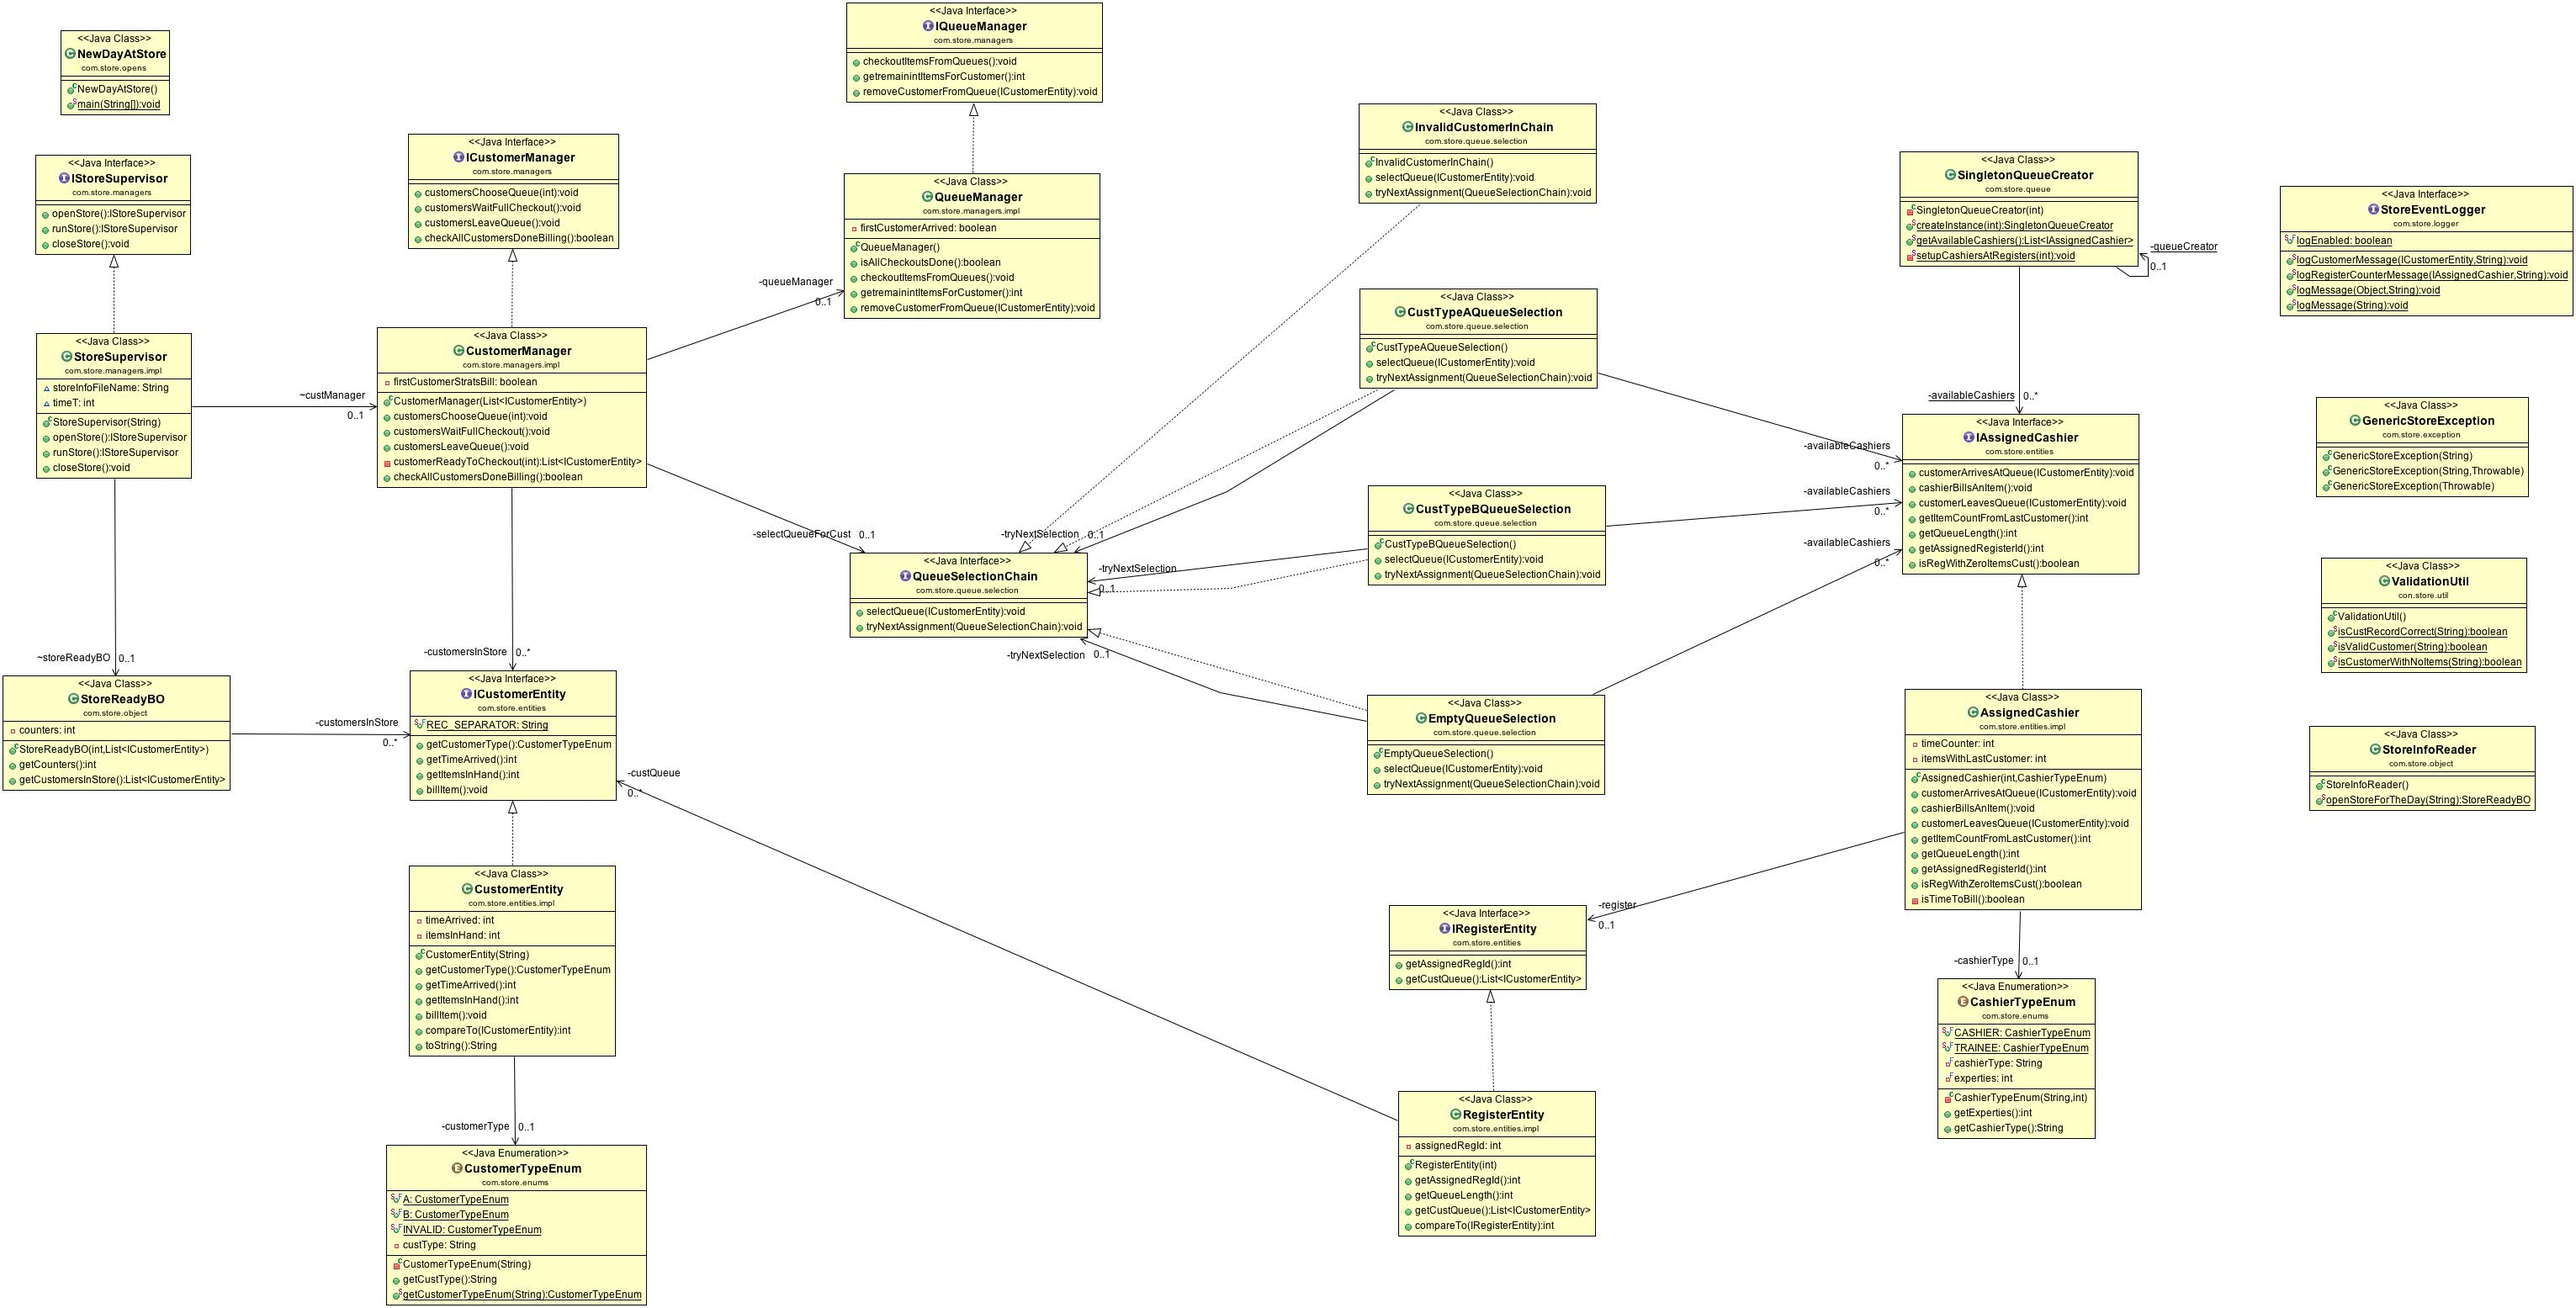
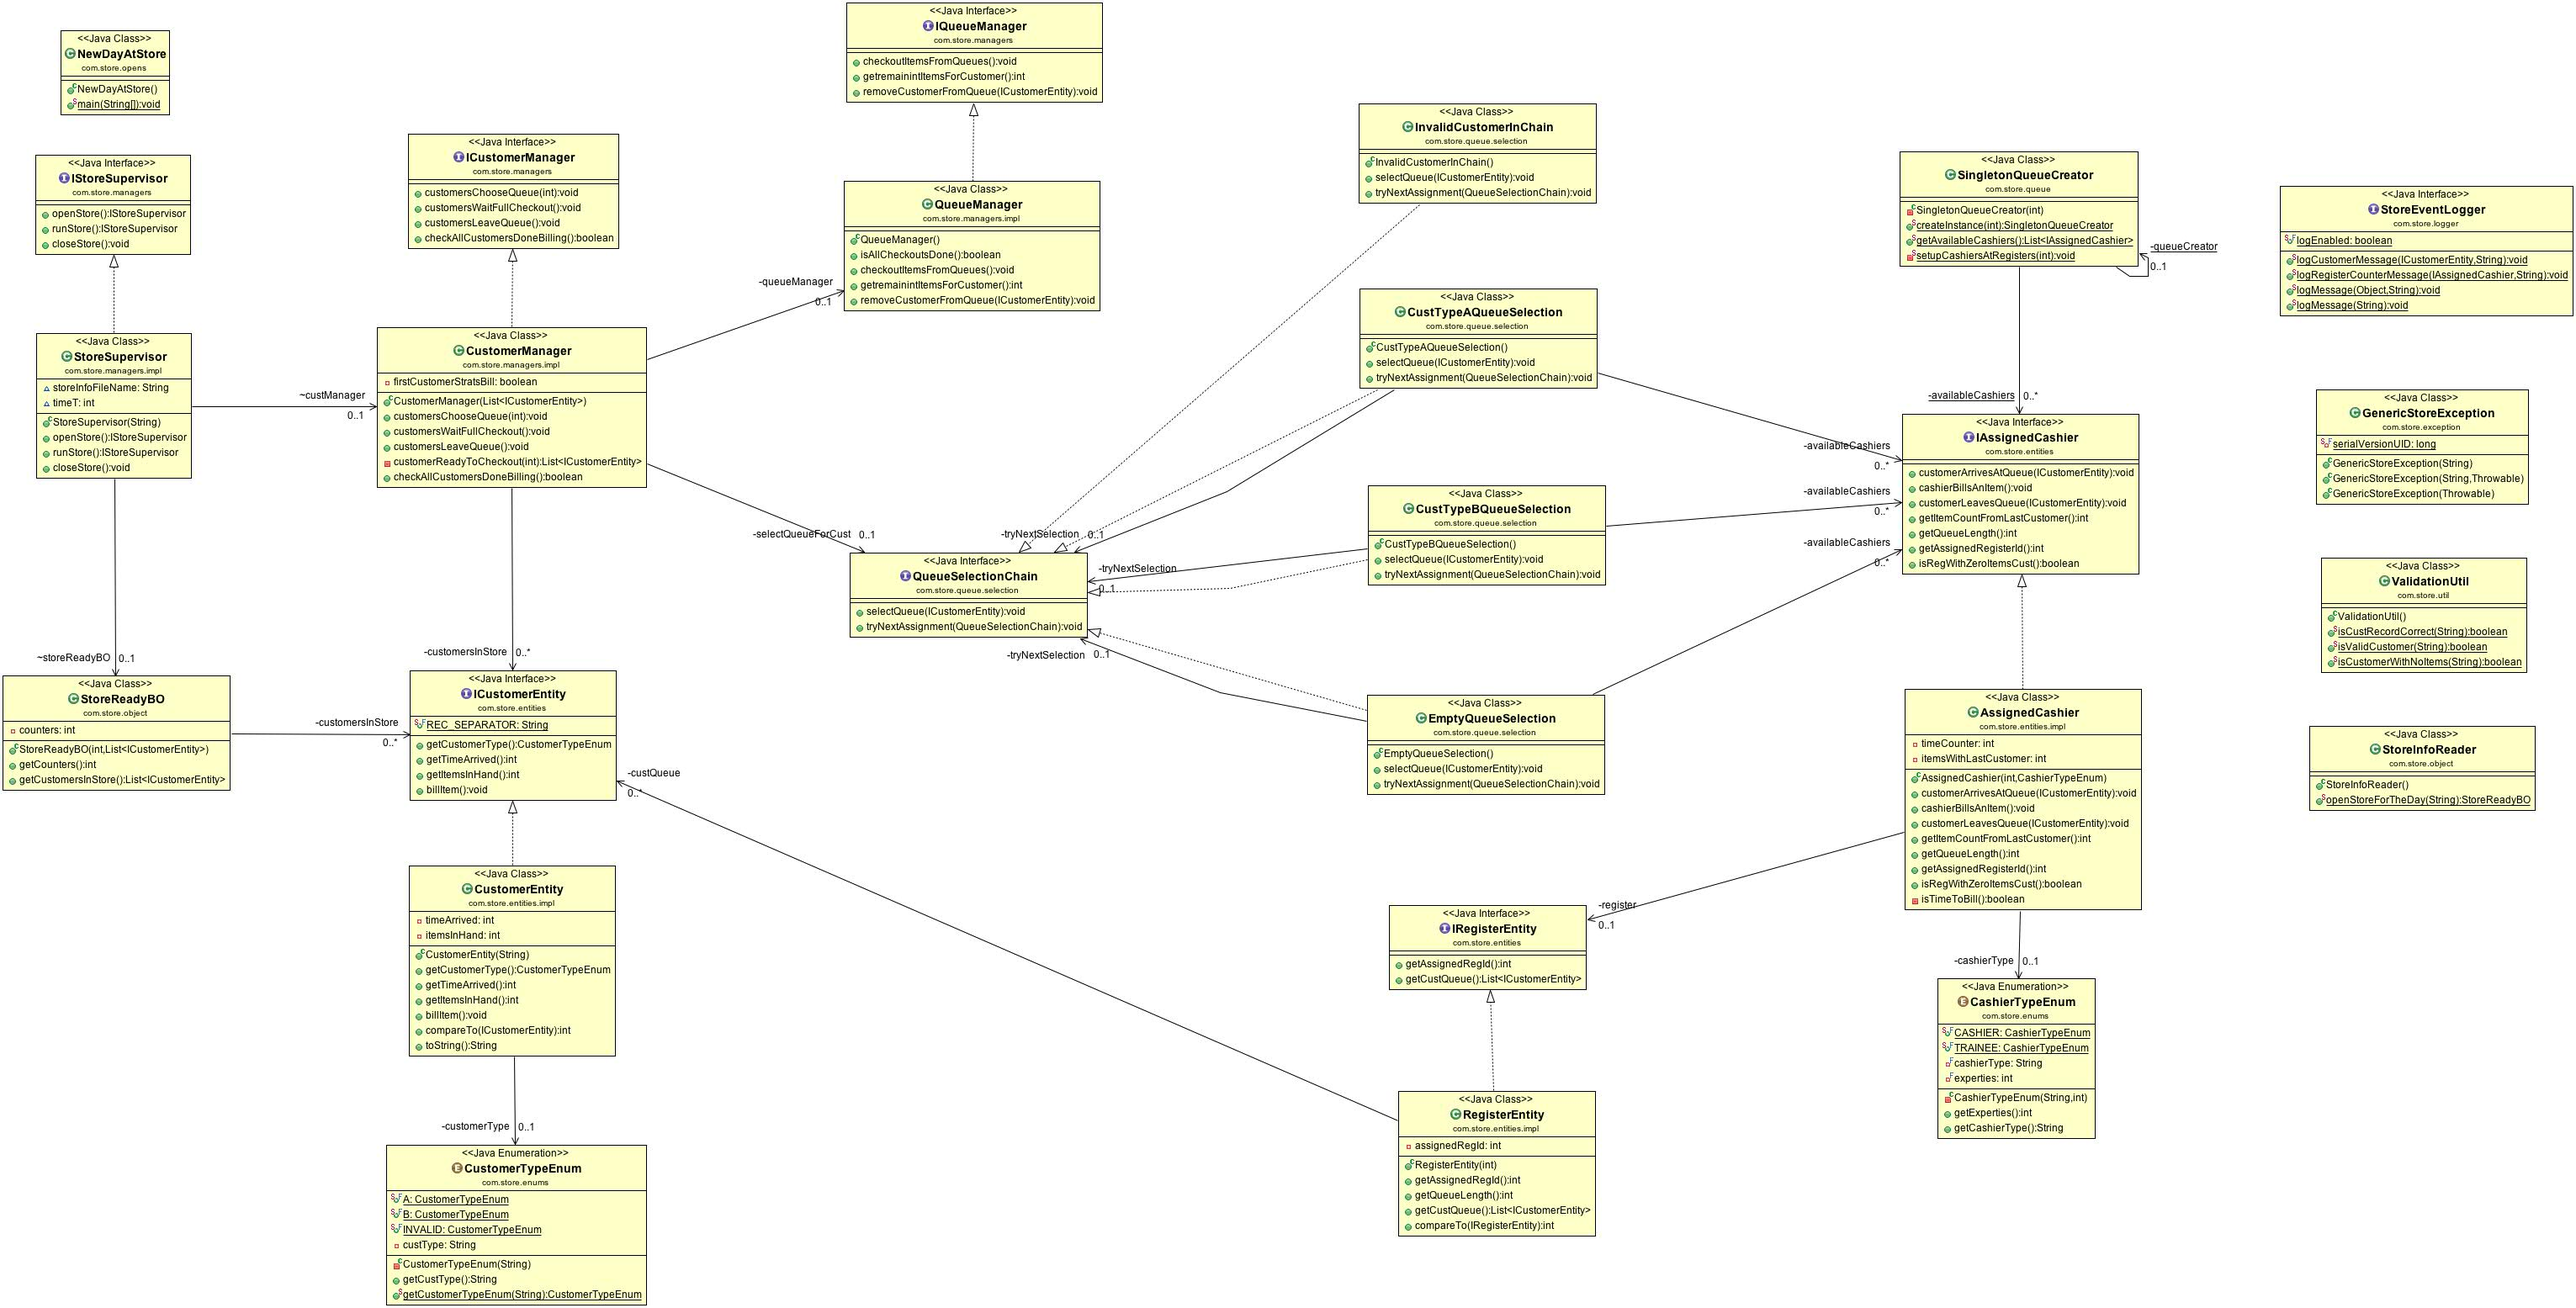
Removing Warnings from the code

Changed region(s): [[0.3103, 0.1235, 0.4344, 0.2469], [0.8997, 0.2778, 0.9928, 0.4013]]

diff --git a/grocery-store-counters/src/main/java/com/store/managers/impl/CustomerManager.java b/grocery-store-counters/src/main/java/com/store/managers/impl/CustomerManager.java
@@ -4,10 +4,8 @@ import java.util.ArrayList;
 import java.util.Comparator;
 import java.util.List;
 import java.util.stream.Collectors;
-import java.util.stream.Stream;
 
 import com.store.entities.ICustomerEntity;
-import com.store.logger.StoreEventLogger;
 import com.store.managers.ICustomerManager;
 import com.store.queue.selection.EmptyQueueSelection;
 import com.store.queue.selection.QueueSelectionChain;

diff --git a/grocery-store-counters/src/main/java/com/store/queue/SingletonQueueCreator.java b/grocery-store-counters/src/main/java/com/store/queue/SingletonQueueCreator.java
@@ -4,9 +4,7 @@ import java.util.ArrayList;
 import java.util.List;
 
 import com.store.entities.IAssignedCashier;
-import com.store.entities.IRegisterEntity;
 import com.store.entities.impl.AssignedCashier;
-import com.store.entities.impl.RegisterEntity;
 import com.store.enums.CashierTypeEnum;
 
 public class SingletonQueueCreator {

diff --git a/grocery-store-counters/src/main/java/com/store/object/StoreInfoReader.java b/grocery-store-counters/src/main/java/com/store/object/StoreInfoReader.java
@@ -10,8 +10,7 @@ import com.store.entities.ICustomerEntity;
 import com.store.entities.impl.CustomerEntity;
 import com.store.exception.GenericStoreException;
 import com.store.logger.StoreEventLogger;
-
-import con.store.util.ValidationUtil;
+import com.store.util.ValidationUtil;
 
 public class StoreInfoReader {
 

diff --git a/grocery-store-counters/src/main/java/com/store/queue/selection/EmptyQueueSelection.java b/grocery-store-counters/src/main/java/com/store/queue/selection/EmptyQueueSelection.java
@@ -6,7 +6,6 @@ import java.util.stream.Collectors;
 
 import com.store.entities.IAssignedCashier;
 import com.store.entities.ICustomerEntity;
-import com.store.entities.IRegisterEntity;
 import com.store.queue.SingletonQueueCreator;
 
 public class EmptyQueueSelection implements QueueSelectionChain {

diff --git a/grocery-store-counters/src/main/java/com/store/queue/selection/CustTypeAQueueSelection.java b/grocery-store-counters/src/main/java/com/store/queue/selection/CustTypeAQueueSelection.java
@@ -6,7 +6,6 @@ import java.util.stream.Collectors;
 
 import com.store.entities.IAssignedCashier;
 import com.store.entities.ICustomerEntity;
-import com.store.entities.IRegisterEntity;
 import com.store.enums.CustomerTypeEnum;
 import com.store.queue.SingletonQueueCreator;
 

diff --git a/grocery-store-counters/src/main/java/com/store/queue/selection/CustTypeBQueueSelection.java b/grocery-store-counters/src/main/java/com/store/queue/selection/CustTypeBQueueSelection.java
@@ -5,7 +5,6 @@ import java.util.List;
 
 import com.store.entities.IAssignedCashier;
 import com.store.entities.ICustomerEntity;
-import com.store.entities.IRegisterEntity;
 import com.store.enums.CustomerTypeEnum;
 import com.store.queue.SingletonQueueCreator;
 

diff --git a/grocery-store-counters/src/main/java/com/store/exception/GenericStoreException.java b/grocery-store-counters/src/main/java/com/store/exception/GenericStoreException.java
@@ -6,6 +6,11 @@ public class GenericStoreException extends Exception {
 	
 	/**
 	 * 
+	 */
+	private static final long serialVersionUID = 1L;
+
+	/**
+	 * 
 	 * @param Message
 	 */
 	public GenericStoreException(String message){

diff --git a/grocery-store-counters/src/main/java/com/store/managers/impl/QueueManager.java b/grocery-store-counters/src/main/java/com/store/managers/impl/QueueManager.java
@@ -9,8 +9,6 @@ import com.store.managers.IQueueManager;
 import com.store.queue.SingletonQueueCreator;
 
 public class QueueManager implements IQueueManager {
-
-	private boolean firstCustomerArrived = false;
 	
 	/**
 	 * 

diff --git a/grocery-store-counters/src/test/java/con/store/util/test/ValidationUtilTest.java b/grocery-store-counters/src/test/java/con/store/util/test/ValidationUtilTest.java
@@ -3,7 +3,7 @@ package con.store.util.test;
 import org.junit.Assert;
 import org.junit.Test;
 
-import con.store.util.ValidationUtil;
+import com.store.util.ValidationUtil;
 
 public class ValidationUtilTest {
 

diff --git a/grocery-store-counters/src/main/java/com/store/managers/ICustomerManager.java b/grocery-store-counters/src/main/java/com/store/managers/ICustomerManager.java
@@ -1,9 +1,5 @@
 package com.store.managers;
 
-import java.util.List;
-
-import com.store.entities.ICustomerEntity;
-
 public interface ICustomerManager {
 
 	public void customersChooseQueue(int atTimeT);

diff --git a/grocery-store-counters/src/main/java/com/store/opens/NewDayAtStore.java b/grocery-store-counters/src/main/java/com/store/opens/NewDayAtStore.java
@@ -1,7 +1,5 @@
 package com.store.opens;
 
-import java.io.IOException;
-
 import com.store.exception.GenericStoreException;
 import com.store.managers.impl.StoreSupervisor;
 

diff --git a/grocery-store-counters/src/main/java/com/store/entities/IAssignedCashier.java b/grocery-store-counters/src/main/java/com/store/entities/IAssignedCashier.java
@@ -1,7 +1,5 @@
 package com.store.entities;
 
-import java.util.List;
-
 public interface IAssignedCashier {
 
 	public void customerArrivesAtQueue(ICustomerEntity cust);
